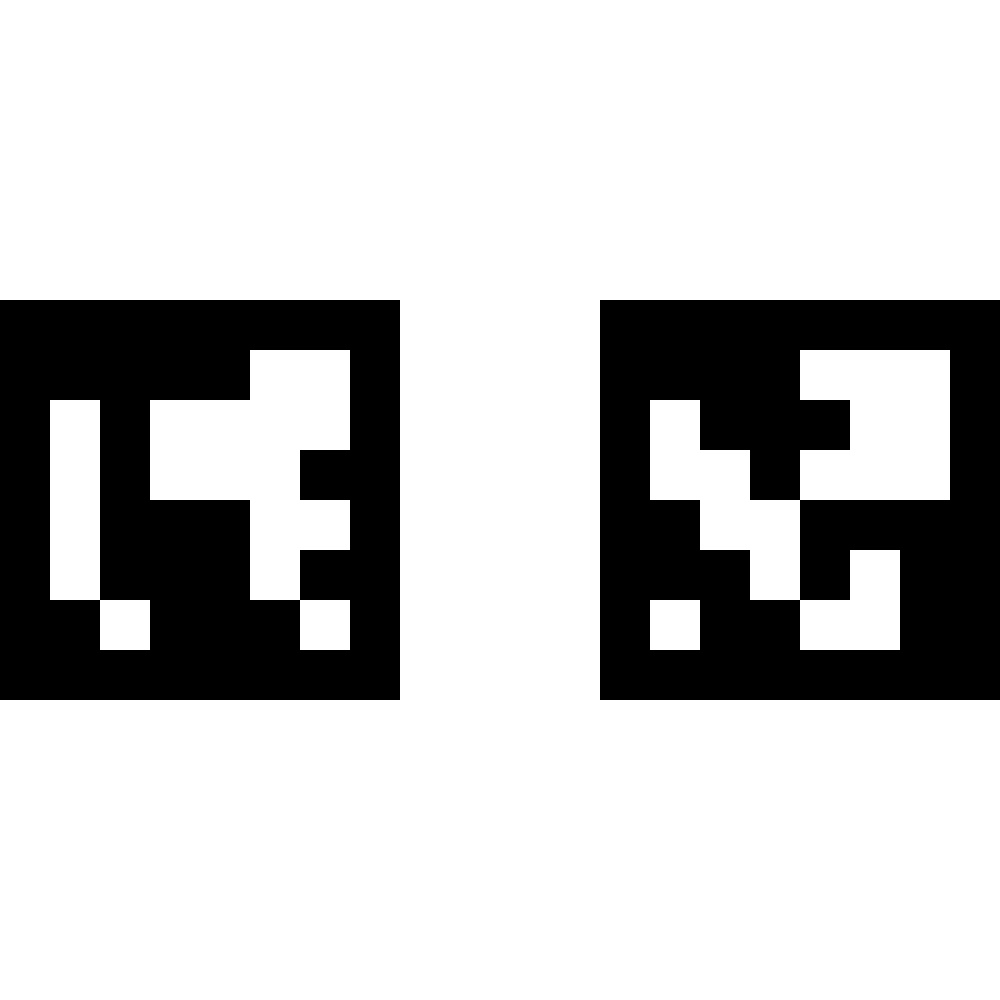
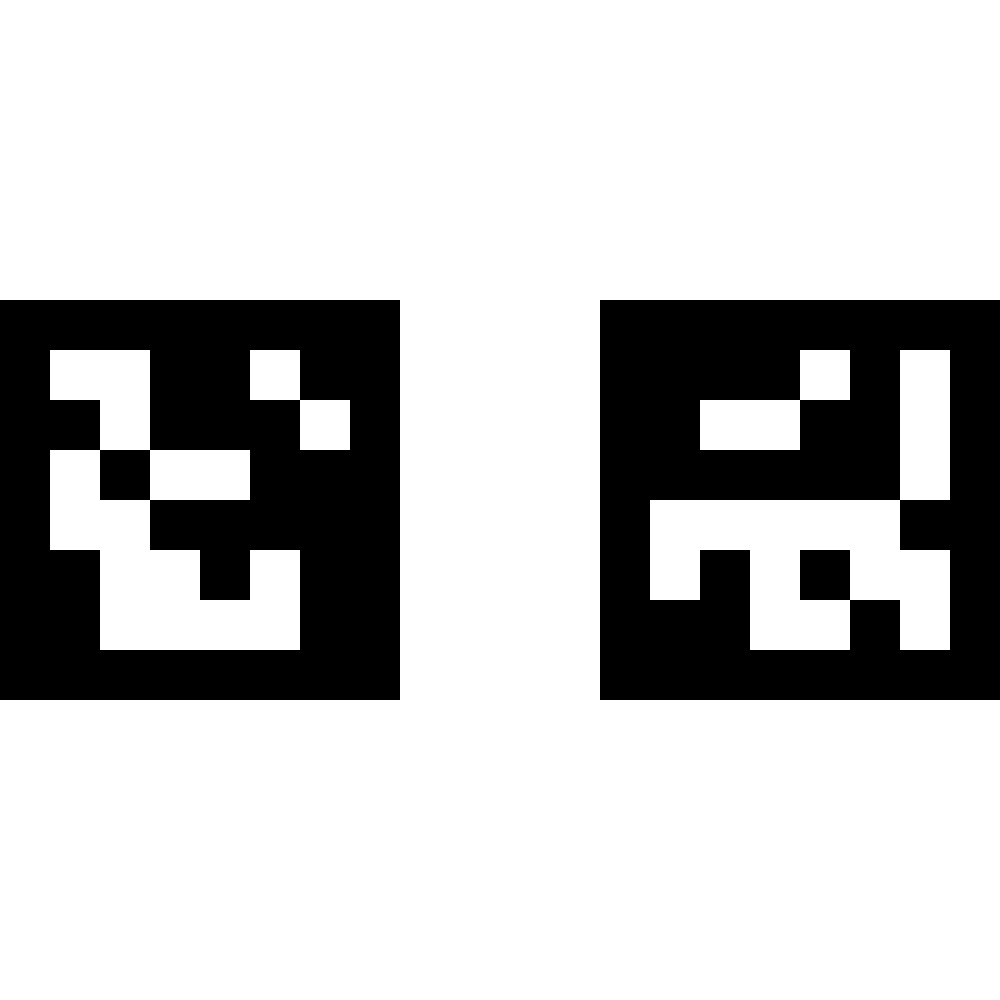
Working comparison b/w mcap and sensor system

diff --git a/Controller/motioncapture.py b/Controller/motioncapture.py
@@ -11,10 +11,10 @@ import numpy as np
 import cv2
 
 #Defines direction of arrow to render for each robot
-robot_arrow = np.float32([[-50,0,0], [50,0,0]]).reshape(-1,3)
+robot_arrow = np.float32([[-5,0,0], [5,0,0]]).reshape(-1,3)
 #Definition of aruco board sizes
-m_width = 71
-m_sep = 35.5
+m_width = 7.1
+m_sep = 3.55
 
 class MotionCapture(Image, NodeSensorDisplay):
     def __init__(self, **kwargs):
@@ -26,9 +26,11 @@ class MotionCapture(Image, NodeSensorDisplay):
         self.aruco_dict = cv2.aruco.Dictionary_get(cv2.aruco.DICT_6X6_250)
         self.parameters =  cv2.aruco.DetectorParameters_create()
         #aruco board generator
-        self.aruco_board = cv2.aruco.Board_create([np.array([[m_sep/2, m_width/2 ,0.],[m_sep/2+m_width, m_width/2, 0. ],[m_sep/2+m_width, -m_width/2, 0.],[m_sep/2, -m_width/2, 0.]], dtype=np.float32),
-                                np.array([[-(m_sep/2+m_width), m_width/2 ,0.],[-m_sep/2, m_width/2, 0. ],[-m_sep/2, -m_width/2, 0.],[-(m_sep/2+m_width), -m_width/2, 0.]], dtype=np.float32)], 
-                                self.aruco_dict, np.array([0,1]))
+        self.aruco_boards = []
+        for i in range(0,3):
+            self.aruco_boards.append(cv2.aruco.Board_create([np.array([[m_sep/2, m_width/2 ,0.],[m_sep/2+m_width, m_width/2, 0.],[m_sep/2+m_width, -m_width/2, 0.],[m_sep/2, -m_width/2, 0.]], dtype=np.float32),
+                                np.array([[-(m_sep/2+m_width), m_width/2 ,0.],[-m_sep/2, m_width/2, 0.],[-m_sep/2, -m_width/2, 0.],[-(m_sep/2+m_width), -m_width/2, 0.]], dtype=np.float32)], 
+                                self.aruco_dict, np.array([i*2,i*2+1])))
         #grab a hook to the webcam
         self.capture = cv2.VideoCapture(0)
         
@@ -41,10 +43,10 @@ class MotionCapture(Image, NodeSensorDisplay):
             self.node_list.append(node['data'])
         #print self.node_list
         
-    def draw_robot(self, pos, angle, color, frame):
+    def draw_robot(self, pos, color, frame):
         #project lines of detected robot locations onto the screen for rendering
-        pts, jac = cv2.projectPoints(robot_arrow, np.array([0,0,angle], np.float32),
-                                     np.array([pos[0],pos[1],2100], np.float32),
+        pts, jac = cv2.projectPoints(robot_arrow, np.array([0,0,pos[2]], np.float32),
+                                     np.array([pos[0],pos[1],220], np.float32),
                                      self.camera_calib_mtx, self.camera_calib_dist)
         #draw robots on screen
         frame = cv2.arrowedLine(frame, tuple(pts[0].ravel()), tuple(pts[1].ravel()), color, 5, tipLength=0.3)
@@ -53,26 +55,30 @@ class MotionCapture(Image, NodeSensorDisplay):
         #detect the corners and ids of all the aruco markers
         corners, ids, rejectedImgPoints = cv2.aruco.detectMarkers(frame, self.aruco_dict, parameters=self.parameters)
         
-        #if we detected some stuff
-        success = False
-        if (ids is not None):
-            success, rvec, tvec = cv2.aruco.estimatePoseBoard(corners, ids, self.aruco_board, self.camera_calib_mtx, self.camera_calib_dist)
+        robot_positions = np.zeros([ids.max()/2+1, 3])
+        for board in self.aruco_boards:
+            #if we detected some stuff
+            success = False
+            if (ids is not None):
+                success, rvec, tvec = cv2.aruco.estimatePoseBoard(corners, ids, board, self.camera_calib_mtx, self.camera_calib_dist)
 
-        try:
-            if (success):
-                #current rotation returned in axis-angle representation.  See Wikipedia for helpful treatment
-                #we want to convert to euler angles, and are only interested in rotation about z
-                angle = np.linalg.norm(rvec)
-                axis = rvec/angle
-                s = np.sin(angle)
-                c = np.cos(angle)
-                t = 1-c
-                z_angle = np.arctan2(axis[2]*s - axis[1]*axis[0]*t, 1-(axis[2]**2 + axis[0]**2)*t)-3.14159/2
-                return (z_angle, [tvec[0], tvec[1]])
-        except TypeError:
-            #nothing detected
-            pass
-        return (None,None)
+            try:
+                if (success):
+                    #current rotation returned in axis-angle representation.  See Wikipedia for helpful treatment
+                    #we want to convert to euler angles, and are only interested in rotation about z
+                    angle = np.linalg.norm(rvec)
+                    axis = rvec/angle
+                    s = np.sin(angle)
+                    c = np.cos(angle)
+                    t = 1-c
+                    z_angle = np.arctan2(axis[2]*s - axis[1]*axis[0]*t, 1-(axis[2]**2 + axis[0]**2)*t)-3.14159/2
+                    #add position vector to the overall vector
+                    robot_positions[board.ids[0][0]/2] = [tvec[0], tvec[1], z_angle]
+            except TypeError:
+                #nothing detected
+                pass
+                
+        return robot_positions
     
     def update(self, dt):
         #Call NodeSensorDisplay update method
@@ -81,16 +87,23 @@ class MotionCapture(Image, NodeSensorDisplay):
         #draw video feed (like a boss)
         ret, frame = self.capture.read()
         if ret:
-            for n in self.node_list:
-                self.draw_robot([n.pos[0], n.pos[1]], np.radians(n.angle), (255,0,0), frame)
-                
             #detect robots
-            angle, pos = self.track_robots(frame)
+            measured_pos = self.track_robots(frame)
+                
+            #draw calculated robot positions
+            calculated_pos = np.zeros([len(self.node_list), 3])
+            for n in self.node_list:
+                #expects nodes to be numbered 2,3,4...
+                calculated_pos[n.node_id-2] = [n.pos[0]/5., n.pos[1]/5., -np.radians(n.angle)]
             
-            if (angle is not None):
-                print angle
-                print pos
-                self.draw_robot(pos, angle, (0,0,255), frame)
+            if (len(calculated_pos) == len(measured_pos)): 
+                err = self.normalize_pts(calculated_pos, measured_pos)
+            
+            #actually draw stuff
+            for p in calculated_pos:
+                self.draw_robot(p, (255,0,0), frame)
+            for p in measured_pos:   
+                self.draw_robot(p, (0,255,0), frame)
             
             # convert OpenCV image to Kivy texture
             buf1 = cv2.flip(frame, 0)

diff --git a/Controller/nodesensordisplay.py b/Controller/nodesensordisplay.py
@@ -7,91 +7,92 @@ import math
 import numpy as np
 from scipy.optimize import minimize
 
-# process points to fit pts1 onto pts2
-# uses algorithm described here: http://nghiaho.com/?page_id=671
-def normalize_pts(pts1, pts2):
-    A = pts1[:, 0:2]
-    B = pts2[:, 0:2]
-
-    assert len(A) == len(B)
-
-    N = A.shape[0]  # total points
-
-    # find centroids
-    centroid_A = np.mean(A, axis=0)
-    centroid_B = np.mean(B, axis=0)
-
-    # centre the points
-    AA = A - np.tile(centroid_A, (N, 1))
-    BB = B - np.tile(centroid_B, (N, 1))
-
-    H = np.dot(np.transpose(AA), BB)
-    U, S, Vt = np.linalg.svd(H)
-
-    # rotation matrix
-    R = np.dot(Vt.T, U.T)
-
-    # special reflection case
-    if np.linalg.det(R) > 0:
-        print "Reflection detected"
-        Vt[1, :] *= -1
-        R = np.dot(Vt.T, U.T)
-
-    # calculate transposition
-    t = np.dot(-R, centroid_A.T) + centroid_B.T
-
-    # Apply transformation
-    A2 = np.dot(R, A.T) + np.tile(t[:, None], (1, N))
-    A2 = A2.T
-
-    pts1[:, 0:2] = A2
-    # rotate the rotations
-    pts1[:, 2] += math.atan2(R[0][1], R[0][0])
-
-    # calculate the error
-    err = A2 - B
-    err = np.multiply(err, err)
-    err = np.sum(err)
-    return err
-
-# p is of the following format
-# p[n][v]
-# n is the robot number, v the position vector (x,y,theta)
-# we also have another matrix, Dp[n][m][v] giving the measured rel pos
-# n,m give the robot number, v the x,y components
-def sum_errors(p, *args):
-    # reformat p to be easier to work with
-    p = np.reshape(p, (p.shape[0]/3, 3))
-    # create the matrix
-    D = np.zeros((p.shape[0], p.shape[0], 2))
-
-    #find difference matrices
-    px_outer = -np.subtract.outer(p[:, 0], p[:, 0])
-    py_outer = -np.subtract.outer(p[:, 1], p[:, 1])
-    #trig stuff
-    cos_mat = np.cos(p[:, 2])
-    sin_mat = np.sin(p[:, 2])
-
-    #x-component
-    D[:,:,0] = np.multiply(px_outer, cos_mat[:, np.newaxis])
-    D[:,:,0] -= np.multiply(py_outer, sin_mat[:, np.newaxis])
-    #y-component
-    D[:,:,1] = np.multiply(px_outer, sin_mat[:, np.newaxis])
-    D[:,:,1] += np.multiply(py_outer, cos_mat[:, np.newaxis])
-
-    #remove data that we don't have sensor data for
-    D = np.multiply(D, args[0].any(axis = 2)[:, :, np.newaxis])
-    # Find all differences
-    D -= args[0]
-    # sum of sqaure of errors
-    return np.sum(np.square(D))
-
 class NodeSensorDisplay(Widget):
     def __init__(self, **kwargs):
         super(NodeSensorDisplay, self).__init__(**kwargs)
         self.node_list = []
         self.has_init = False
         self.timer = Clock.schedule_interval(self.update, 1)
+        
+    # process points to fit pts1 onto pts2
+    # uses algorithm described here: http://nghiaho.com/?page_id=671
+    def normalize_pts(self, pts1, pts2):
+        print pts1
+        A = pts1[:, 0:2]
+        B = pts2[:, 0:2]
+
+        assert len(A) == len(B)
+
+        N = A.shape[0]  # total points
+
+        # find centroids
+        centroid_A = np.mean(A, axis=0)
+        centroid_B = np.mean(B, axis=0)
+
+        # centre the points
+        AA = A - np.tile(centroid_A, (N, 1))
+        BB = B - np.tile(centroid_B, (N, 1))
+
+        H = np.dot(np.transpose(AA), BB)
+        U, S, Vt = np.linalg.svd(H)
+
+        # rotation matrix
+        R = np.dot(Vt.T, U.T)
+
+        # special reflection case
+        if np.linalg.det(R) > 0:
+            print "Reflection detected"
+            Vt[1, :] *= -1
+            R = np.dot(Vt.T, U.T)
+
+        # calculate transposition
+        t = np.dot(-R, centroid_A.T) + centroid_B.T
+
+        # Apply transformation
+        A2 = np.dot(R, A.T) + np.tile(t[:, None], (1, N))
+        A2 = A2.T
+
+        pts1[:, 0:2] = A2
+        # rotate the rotations
+        pts1[:, 2] += math.atan2(R[0][1], R[0][0])
+
+        # calculate the error
+        err = A2 - B
+        err = np.multiply(err, err)
+        err = np.sum(err)
+        return err
+
+    # p is of the following format
+    # p[n][v]
+    # n is the robot number, v the position vector (x,y,theta)
+    # we also have another matrix, Dp[n][m][v] giving the measured rel pos
+    # n,m give the robot number, v the x,y components
+    def sum_errors(self, p, *args):
+        # reformat p to be easier to work with
+        p = np.reshape(p, (p.shape[0]/3, 3))
+        # create the matrix
+        D = np.zeros((p.shape[0], p.shape[0], 2))
+
+        #find difference matrices
+        px_outer = -np.subtract.outer(p[:, 0], p[:, 0])
+        py_outer = -np.subtract.outer(p[:, 1], p[:, 1])
+        #trig stuff
+        cos_mat = np.cos(p[:, 2])
+        sin_mat = np.sin(p[:, 2])
+
+        #x-component
+        D[:,:,0] = np.multiply(px_outer, cos_mat[:, np.newaxis])
+        D[:,:,0] -= np.multiply(py_outer, sin_mat[:, np.newaxis])
+        #y-component
+        D[:,:,1] = np.multiply(px_outer, sin_mat[:, np.newaxis])
+        D[:,:,1] += np.multiply(py_outer, cos_mat[:, np.newaxis])
+
+        #remove data that we don't have sensor data for
+        D = np.multiply(D, args[0].any(axis = 2)[:, :, np.newaxis])
+        # Find all differences
+        D -= args[0]
+        # sum of sqaure of errors
+        return np.sum(np.square(D))
 
     def set_list(self, node_list):
         self.node_list = []
@@ -111,13 +112,13 @@ class NodeSensorDisplay(Widget):
                 x0 = np.zeros((Dp.shape[0], 3))
 
                 #args has to be a tuple, because of weird numpy problems
-                out = minimize(fun=sum_errors, x0=x0, args=(Dp,), method='SLSQP')
+                out = minimize(fun=self.sum_errors, x0=x0, args=(Dp,), method='SLSQP')
 
                 # format stuff nicely and output
                 self.pts = np.reshape(out.x, (out.x.shape[0]/3, 3))
                 if (hasattr(self, 'last_pts')):
                     #align points to be closest to the last
-                    normalize_pts(self.pts, self.last_pts)
+                    self.normalize_pts(self.pts, self.last_pts)
 
                 #update nodes with postitions and angles
                 all_reports_heard = True

diff --git a/ImageTracking/gen_marker.py b/ImageTracking/gen_marker.py
@@ -14,7 +14,7 @@ aruco_dict = aruco.Dictionary_get(aruco.DICT_6X6_250)
 
 board = cv2.aruco.Board_create([np.array([[0.025, 0.05 ,0.],[0.125, 0.05, 0. ],[0.125, -0.05, 0.],[0.025, -0.05, 0.]], dtype=np.float32),
                                 np.array([[-0.125, 0.05 ,0.],[-0.025, 0.05, 0. ],[-0.025, -0.05, 0.],[-0.125, -0.05, 0.]], dtype=np.float32)], 
-                                aruco_dict, np.array([0,1]))
+                                aruco_dict, np.array([2,3]))
 print board.objPoints
 img = cv2.aruco.drawPlanarBoard(board, (1000,1000))
 cv2.imwrite("test_marker.jpg", img)

diff --git a/Controller/controller.py b/Controller/controller.py
@@ -22,8 +22,8 @@ from motioncapture import *
 class Controller(BoxLayout):
     def __init__(self, **kwargs):
         super(Controller, self).__init__(**kwargs)
-        #self.comm = SerialInterface('/dev/tty.usbmodem1782091')
-        self.comm = SerialInterface('/dev/ttys002')
+        self.comm = SerialInterface('/dev/tty.usbmodem1782091')
+        #self.comm = SerialInterface('/dev/ttys002')
 
     def set_list(self, node_list):
         self.ids.motion_capture.set_list(node_list)

diff --git a/ImageTracking/camera_calib.py b/ImageTracking/camera_calib.py
@@ -6,7 +6,7 @@ import cv2
 import glob
 
 aruco_dict = cv2.aruco.Dictionary_get(cv2.aruco.DICT_6X6_250)
-board = cv2.aruco.CharucoBoard_create(5, 7, 33, 16.5, aruco_dict);
+board = cv2.aruco.CharucoBoard_create(5, 7, 3.3, 1.65, aruco_dict);
 
 # Code to export the board to a file for printing before calibrating
 '''
